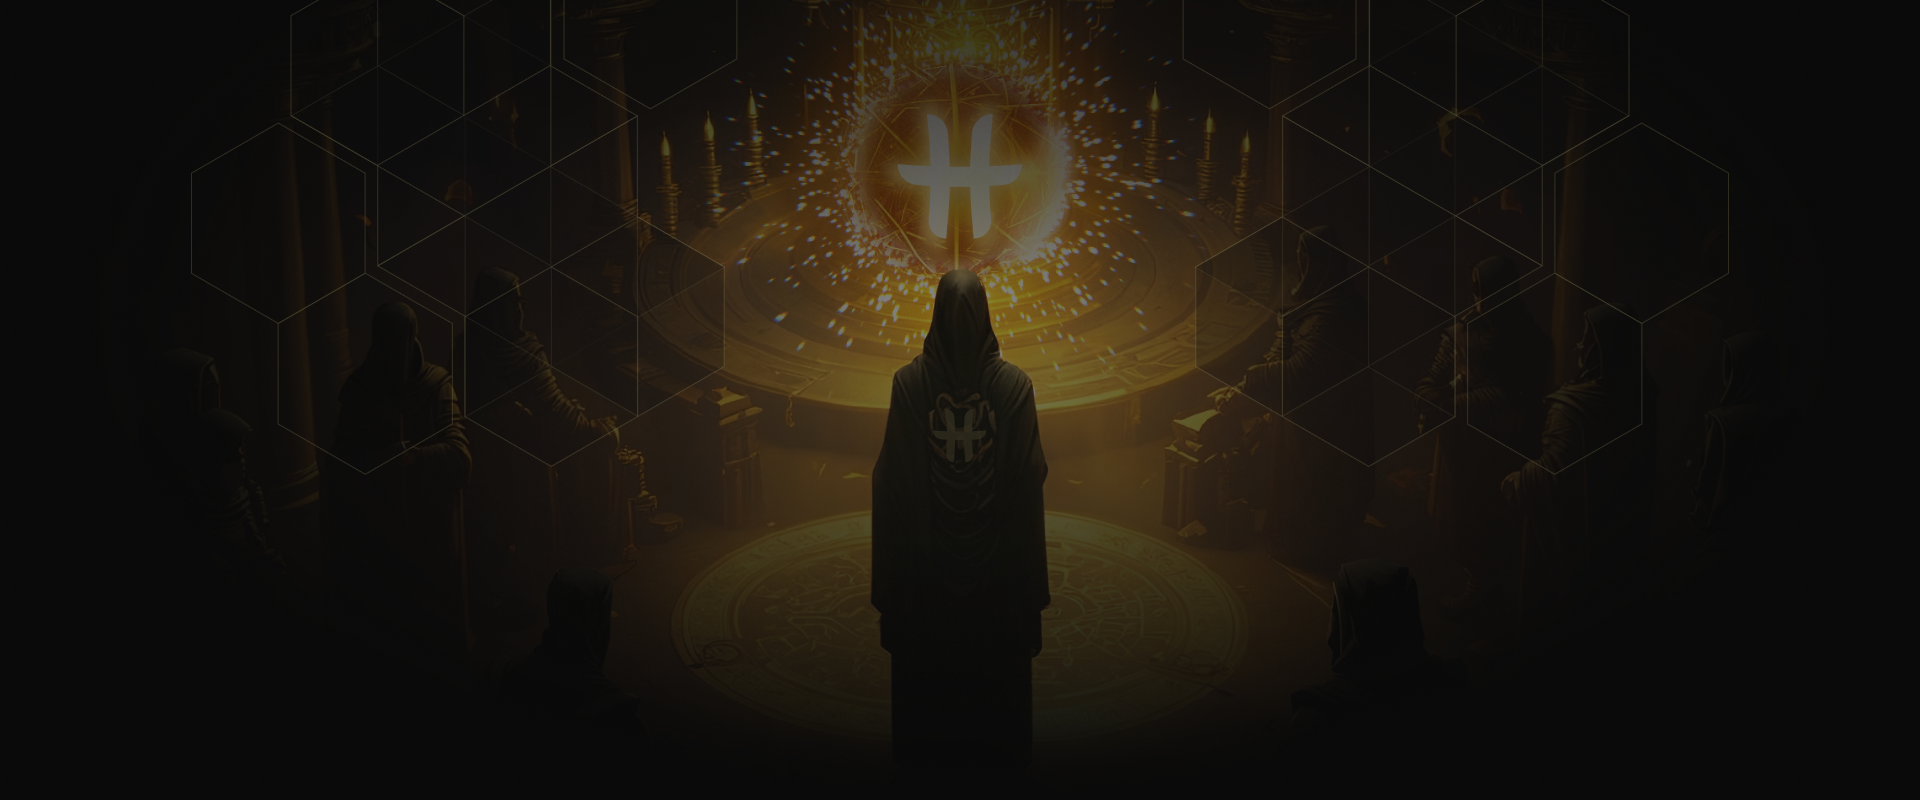
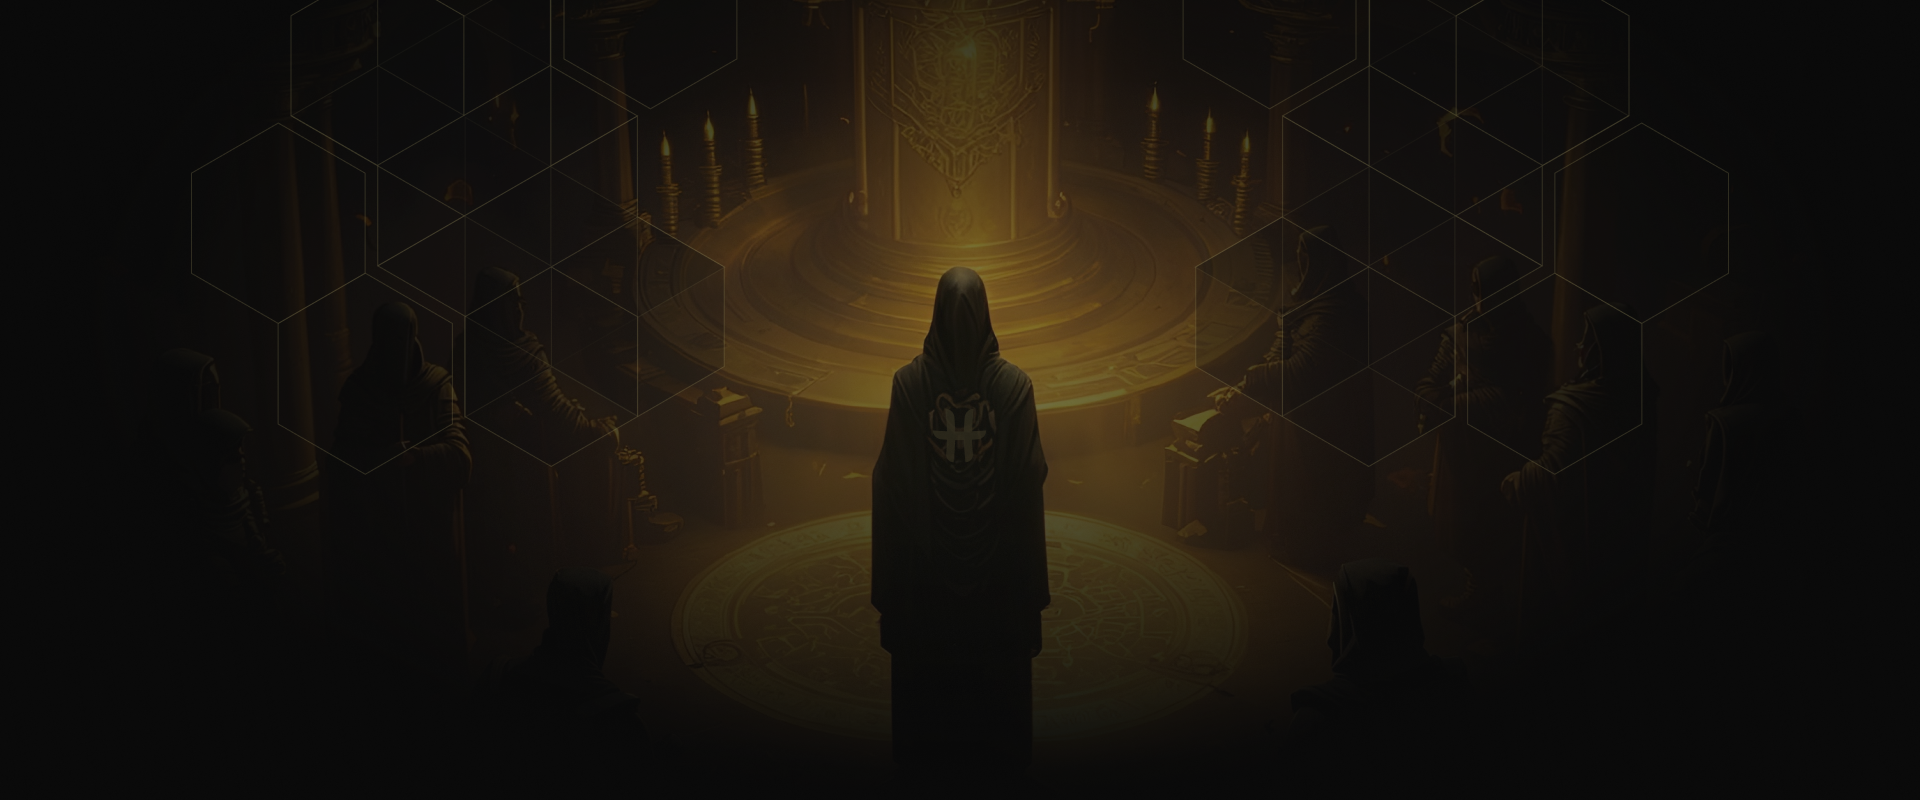
Enhance TenetsPage with new assets and animations
- Updated the TenetsPage component to include a new animated ball image and glow effect.
- Added a new ball.png asset to the tenets images directory.
- Introduced shine animation for improved visual appeal.
- Refactored styles to accommodate new elements and enhance layout.

Changed region(s): [[0.375, 0.0312, 0.625, 0.4062]]

diff --git a/src/pages/TenetsPage.tsx b/src/pages/TenetsPage.tsx
@@ -9,7 +9,11 @@ import tenets3 from '../assets/images/tenets/3.svg';
 import tenets4 from '../assets/images/tenets/4.svg';
 import tenets5 from '../assets/images/tenets/5.svg';
 import tenets6 from '../assets/images/tenets/6.svg';
+import ball from '../assets/images/tenets/ball.png';
 import Header from '../components/Header';
+import shineAnimation from '../assets/animations/birth.gif';
+
+
 
 const IntroContainer = styled.section`
   width: 100vw;
@@ -17,7 +21,6 @@ const IntroContainer = styled.section`
   background-image: url(${tenetsBg});
     background-position: center;
     background-repeat: no-repeat;
-    margin: 0;
     display: flex;
     flex-direction: column;
     align-items: center;
@@ -108,11 +111,6 @@ const Title = styled.h1`
 
 const Subtitle = styled.h2`
 
-
-
-
-
-
 font-family: 'Mongolian Baiti';
 font-style: normal;
 font-weight: 400;
@@ -163,6 +161,43 @@ color: #FFFFFF;
   }
 `;
 
+const GlowEffect = styled.div`
+  position: absolute;
+  width: 339.82px;
+  height: 339.82px;
+  background: #FFA62B;
+  mix-blend-mode: soft-light;
+  filter: blur(34.8586px);
+  z-index: 0;
+`;
+
+const BallWithAnimation = styled.div`
+  position: absolute;
+  top: 5%;
+  display: flex;
+  justify-content: center;
+  align-items: center;
+  width: 100%;
+  max-width: 15vh;
+  height: auto;
+  margin: 0 auto;
+`;
+const AnimationImage = styled.img`
+  width: 200%;
+  mix-blend-mode: color-dodge;
+  position: absolute;
+  z-index: 1;
+  mask-image: radial-gradient(circle, transparent 6.5vh, black 4vh);
+  mask-size: 100% 100%;
+  mask-position: center;
+  filter: brightness(1.5) contrast(1.2);
+`;
+
+const BallImage = styled.img`
+  width: 100%;
+  height: auto;
+`;
+
 const TenetsPage: React.FC = () => {
     return (
         <>
@@ -179,6 +214,11 @@ const TenetsPage: React.FC = () => {
                         </Manifesto>
                     </TextContainer>
                 </ContentWrapper>
+                <BallWithAnimation>
+                    <GlowEffect />
+                    <BallImage src={ball} alt="Ball" />
+                    <AnimationImage src={shineAnimation} alt="Shine Animation" />
+                </BallWithAnimation>
             </IntroContainer>
 
             <TenetsBackground>
